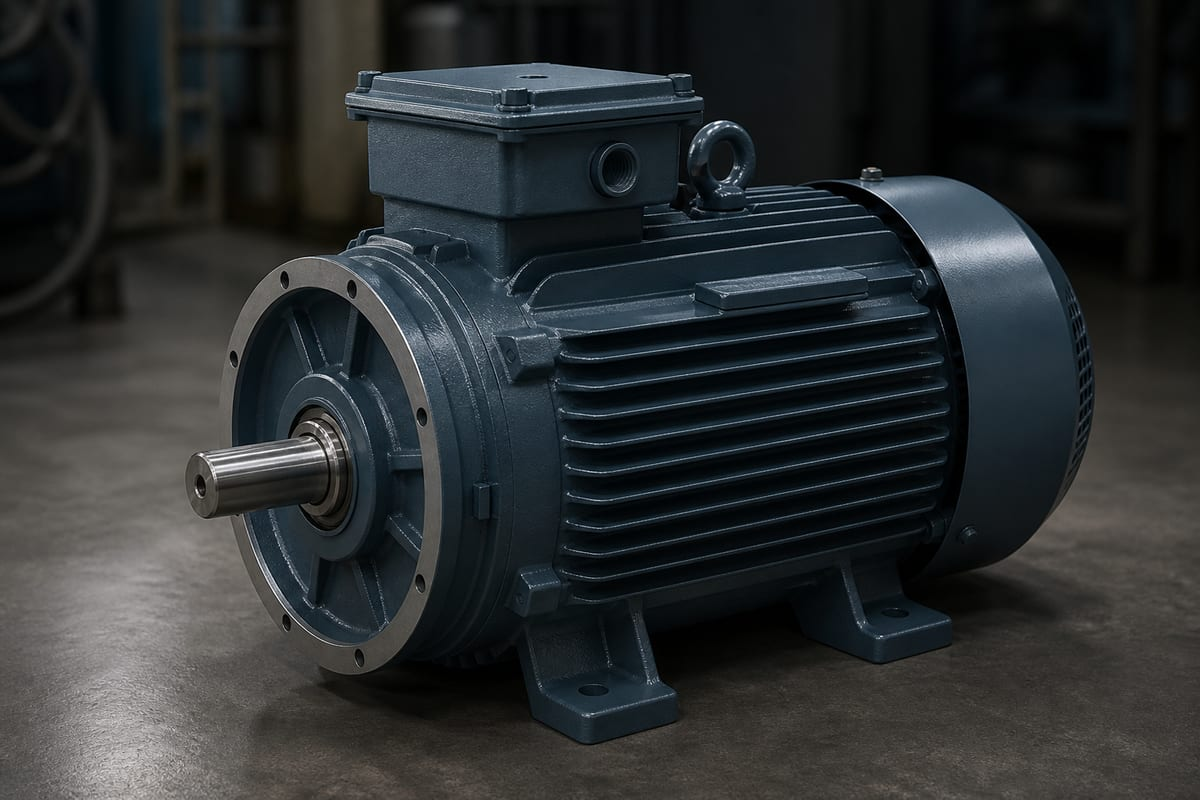
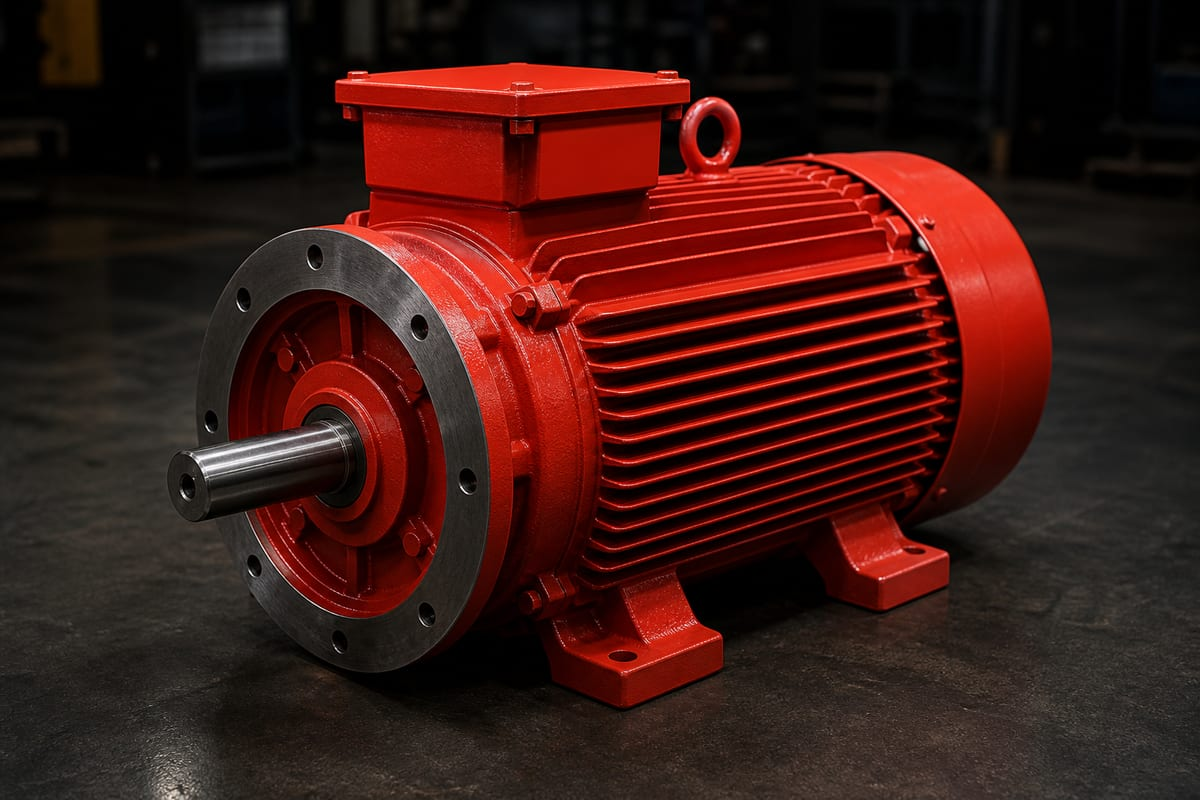
Use the red-oxide motor in the gallery as well as the hero
The hero showed a red motor while the tile labelled Electric Motors
directly below it showed a dark blue-grey one, which read as two unrelated
products. Use a red-oxide motor in the gallery too, shot from a different
angle so it is not a duplicate of the hero, and framed like the tile it
replaces so the swap is seamless.

It needed no exposure grading: at mean luminance 0.036 and p95 0.176 it
already sits inside the range of the other three tiles.

diff --git a/components/EquipmentGallery.tsx b/components/EquipmentGallery.tsx
@@ -9,7 +9,7 @@ const equipment = [
   {
     title: 'Electric Motors',
     image: electricMotorImage,
-    alt: 'Industrial three-phase electric motor with a finned frame, terminal box and drive shaft',
+    alt: 'Red-oxide industrial three-phase electric motor with a finned frame, terminal box and drive shaft',
   },
   {
     title: 'Gearboxes',
